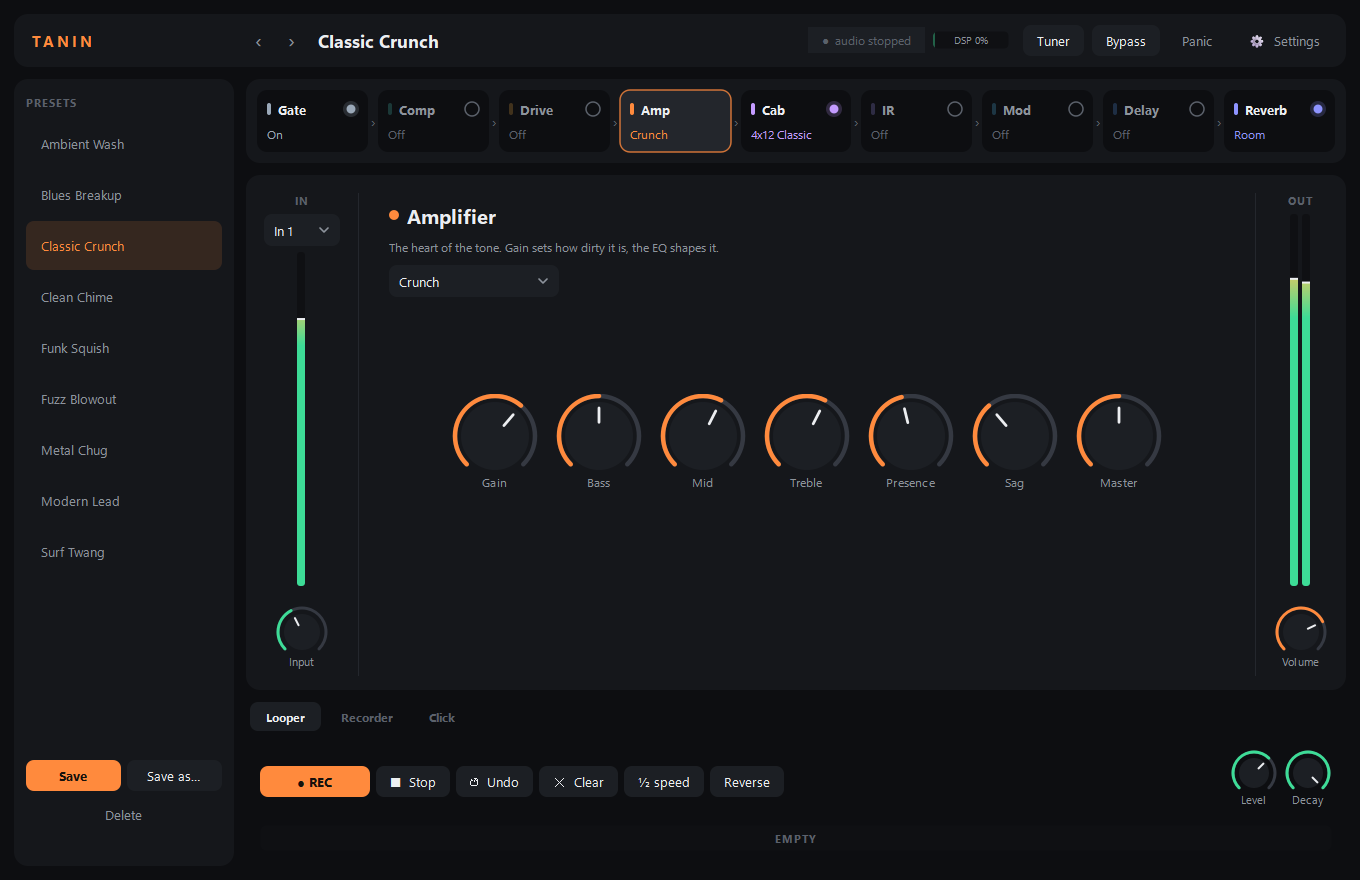
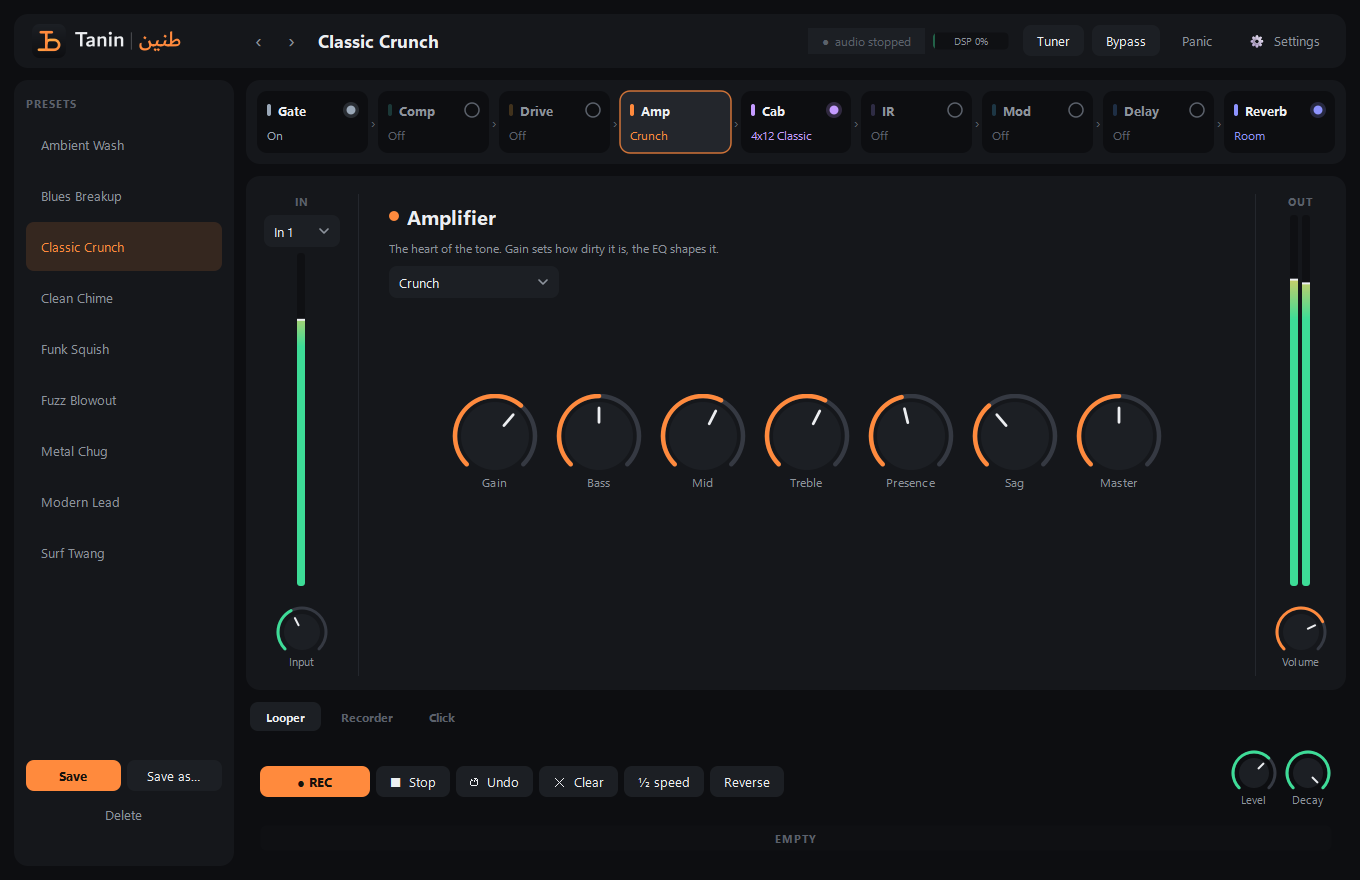
Show the Tanin | طنين wordmark in the top bar

diff --git a/amprack/brand.py b/amprack/brand.py
@@ -30,6 +30,35 @@ def icon():
     return ic
 
 
+WORDMARK = (Path(__file__).resolve().parent.parent / "assets" / "brand" / "bilingual"
+            / "tanin-wordmark-d-horizontal-dark.svg")
+
+
+def wordmark_pixmap(height: int, dpr: float = 1.0):
+    """The 'Tanin | طنين' wordmark rendered crisp at the given logical height.
+    Returns None if the file or Qt SVG support is missing, so callers can fall
+    back to plain text."""
+    try:
+        from PySide6.QtCore import QRectF, Qt
+        from PySide6.QtGui import QPainter, QPixmap
+        from PySide6.QtSvg import QSvgRenderer
+    except Exception:
+        return None
+    r = QSvgRenderer(str(WORDMARK))
+    if not r.isValid():
+        return None
+    size = r.defaultSize()
+    w = height * size.width() / max(1, size.height())
+    pm = QPixmap(int(w * dpr), int(height * dpr))
+    pm.fill(Qt.transparent)
+    p = QPainter(pm)
+    p.setRenderHint(QPainter.Antialiasing, True)
+    r.render(p, QRectF(0, 0, pm.width(), pm.height()))
+    p.end()
+    pm.setDevicePixelRatio(dpr)
+    return pm
+
+
 def apply(app) -> None:
     """Call right after creating the QApplication, before any window is shown."""
     _set_windows_app_id()

diff --git a/amprack/ui/main.py b/amprack/ui/main.py
@@ -147,8 +147,15 @@ class MainWindow(QMainWindow):
         h.setContentsMargins(18, 10, 12, 10)
         h.setSpacing(8)
 
-        title = QLabel("TANIN")
-        title.setObjectName("Brand")
+        from .. import brand
+        title = QLabel()
+        pm = brand.wordmark_pixmap(34, self.devicePixelRatioF())
+        if pm is not None:
+            title.setPixmap(pm)
+        else:
+            title.setText("TANIN")
+            title.setObjectName("Brand")
+        title.setToolTip("Tanin · طنين")
         title.setFixedWidth(206)
         h.addWidget(title)
 
